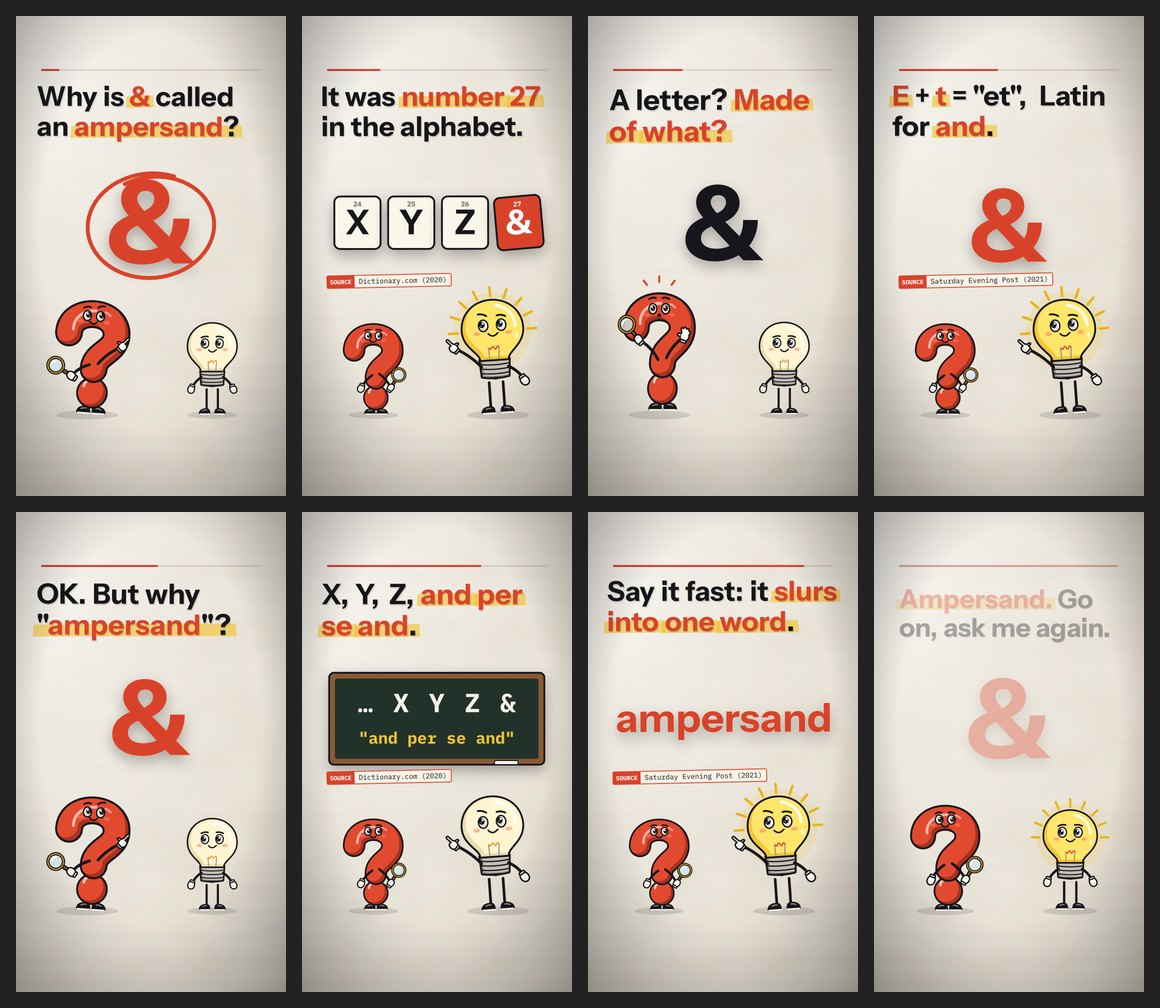
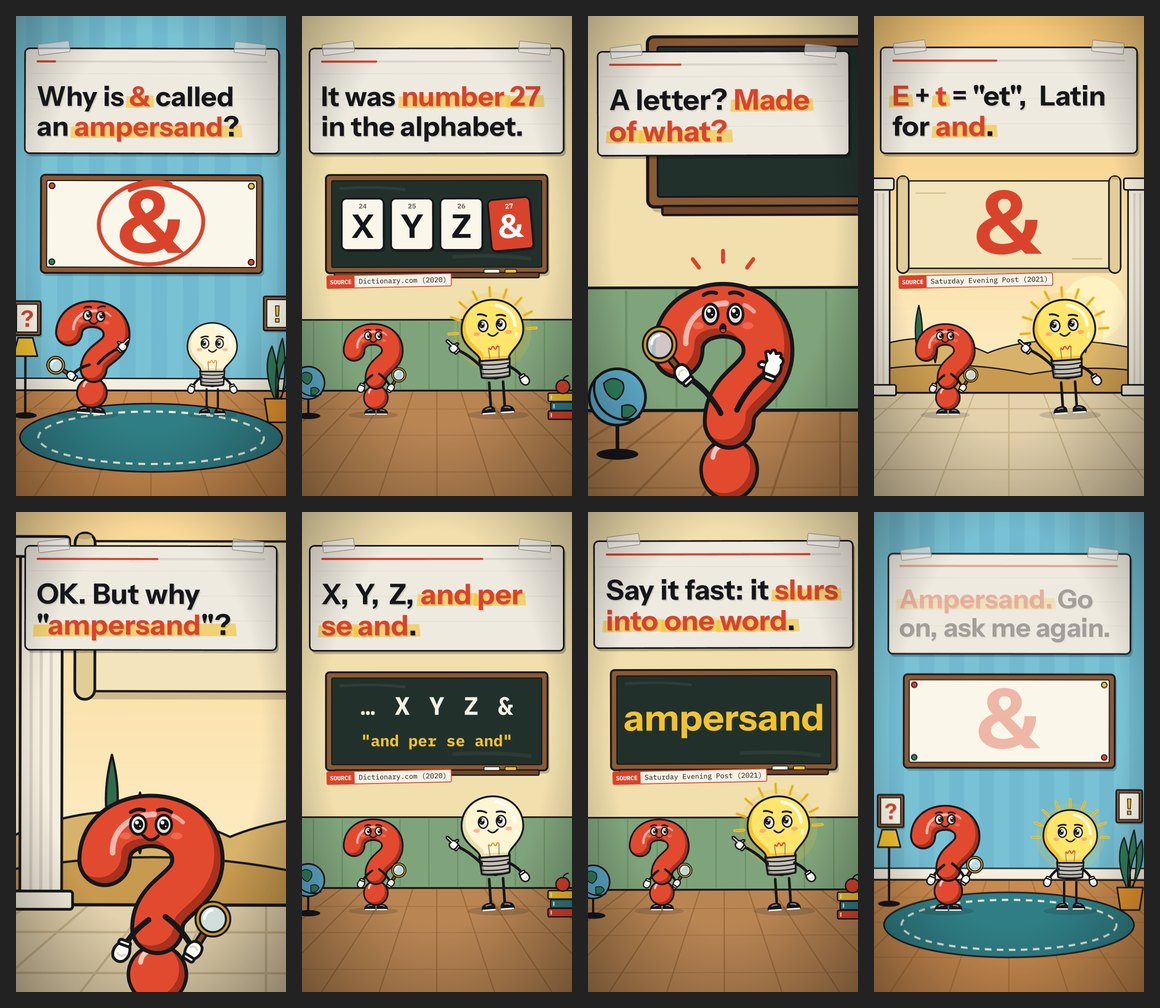
Stijl 3 ronde 2: getekende decors, onderwerp in het decor, close-ups (proef YS40)
Andries, za 14 nov 2026 ±14:49, in de sessie: "oke dit ziet er al super goed uit, ik wil dit nu uitwerken naar een variatie op hoe [weggelaten] ze videos maakt kwa achtergronden en samenvoegen van dingen".
Eigen variatie: alle decors zijn eigen tekenwerk; geen beeld van anderen. Nog geen stijl OK, niets ingepland.

diff --git a/docs/proef-stijl-3.md b/docs/proef-stijl-3.md
@@ -19,6 +19,17 @@
 7. **Indeling:** de kop bovenaan, het beeld in het midden (kleiner dan in stijl 2), de bronstempel daaronder en het duo onderaan. De gezichten blijven binnen het veilige vlak van YouTube en Instagram.
 8. **Lus:** de short eindigt met Peertje die zegt "Go on. Ask me again.", waarna het Vraagteken de openingsvraag weer stelt.
 
+**Ronde 2, decors en close-ups.** Andries (za 14 nov 2026 ±14:49, in de sessie): *"oke dit ziet er al super goed uit, ik wil dit nu uitwerken naar een variatie op hoe [weggelaten] ze videos maakt kwa achtergronden en samenvoegen van dingen"*. Het voorbeeld is een animatiekanaal; de naam staat niet in deze repo. Wat ik daar zie en als aanpak overneem, in onze eigen vorm:
+
+| Bij het voorbeeld | Onze variatie |
+|---|---|
+| De figuren staan in een omgeving die het hele beeld vult. | Het duo staat in een **getekend decor**: hun eigen kamer, een klaslokaal, het oude Rome. Per short kies ik de decors bij het verhaal. |
+| Losse dingen worden in de scène gezet en de figuren doen er iets mee. | Het onderwerp staat **in het decor zelf**: op het prikbord, met krijt op het schoolbord, op een perkamentrol. Het duo wijst ernaar. |
+| De camera wisselt tussen een wijd beeld en een close-up van wie praat. | Korte vragen krijgen een **close-up** van het Vraagteken, met een harde snede. Antwoorden staan wijd, met het bord in beeld. |
+| Witte tekst met zwarte rand bovenin. | Onze kop blijft: het **papieren kaartje** met markeerstift, nu met plakband bovenin het decor gehangen. Zo blijft het kanaal herkenbaar. |
+
+Wat ik niet overneem: hun figuren, hun beeld, spelbeelden of muziek. Alle decors zijn eigen tekenwerk (`gereedschap/short/decor.cjs`), in dezelfde dikke lijn en kleuren als het duo. De bronstempel, de voortgangsbalk, de krabbels en de tekst gelijk met de stem blijven.
+
 **De proef: YS40, "Why is "&" called an ampersand?"**
 - Script: `teksten/shorts/YS40.cjs` (8 scènes: vraag, antwoord, vraag, antwoord, vraag, drie keer antwoord).
 - Bronnen, gelezen za 14 nov 2026: Dictionary.com, "What Character Was Removed From The Alphabet?" (7 sep 2020); Andy Hollandbeck, "In a Word: And & Ampersand", The Saturday Evening Post (2 sep 2021).
@@ -27,7 +38,7 @@
 
 **Techniek:**
 - Figuren: `gereedschap/figuur.cjs` (vector; ontwerp A en D). Generator: `gereedschap/short.cjs`, alleen voor scripts met `stijl: 3` en een `duo`. Scripts met stijl 1 of 2 worden gemaakt zoals voorheen (YS01–YS39 veranderen niet).
-- Per scène: `wie: 'vraag' | 'antwoord'`, optioneel `pose` en `aha` (het moment waarop Peertje aangaat). Per figuur een stem in `stemmen`.
+- Per scène: `wie: 'vraag' | 'antwoord'`, `decor` (kamer, klas of rome), optioneel `shot: 'dichtbij'`, `pose` en `aha` (het moment waarop Peertje aangaat). Per figuur een stem in `stemmen`.
 - Geen betaald hulpmiddel; het potje is niet aangesproken.
 
-**Gevraagd:** "stijl OK stijl 3" (figuren, stemmen, indeling en beweging). Dat dekt de weergave voor de YS-reeks vanaf YS40. Script, bronnen en titel van YS40 komen daarna apart ter keuring ("pakket OK YS40").
+**Gevraagd:** "stijl OK stijl 3" (figuren, stemmen, decors, close-ups, indeling en beweging). Dat dekt de weergave voor de YS-reeks vanaf YS40. Script, bronnen en titel van YS40 komen daarna apart ter keuring ("pakket OK YS40").
